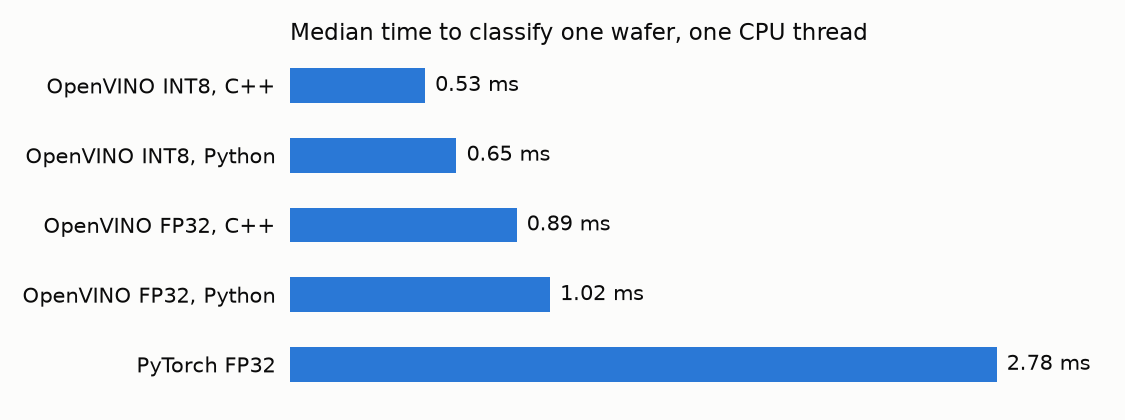
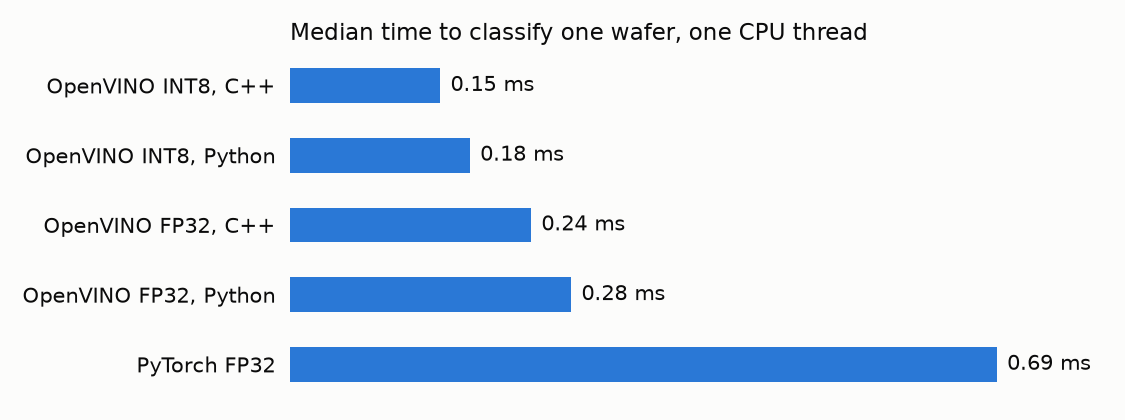
Add CI with Linux C++ build and plugged-in benchmark results

diff --git a/tests/test_demo.py b/tests/test_demo.py
@@ -1,0 +1,66 @@
+"""Tests on the committed INT8 model and sample wafers (no dataset needed).
+
+The C++ test runs only when WAFERWISE_INFER points to a built waferwise_infer binary:
+    WAFERWISE_INFER=cpp/build/waferwise_infer pytest tests/test_demo.py
+On Windows the OpenVINO and OpenCV DLL folders must be on PATH (see cpp/README.md).
+"""
+
+import json
+import os
+import subprocess
+import sys
+
+import pandas as pd
+import pytest
+
+from waferwise.utils import repo_path
+
+sys.path.insert(0, str(repo_path("scripts")))
+from demo import classify  # noqa: E402
+
+MODEL = repo_path("models/wafer_cnn_int8.xml")
+GATE = repo_path("models/gate.json")
+WAFERS = sorted(repo_path("demo/wafers").glob("*.png"))
+CLI = os.environ.get("WAFERWISE_INFER")
+
+
+@pytest.fixture(scope="module")
+def gate() -> dict:
+    with open(GATE, encoding="utf-8") as f:
+        return json.load(f)
+
+
+@pytest.fixture(scope="module")
+def python_rows(gate) -> list[dict]:
+    return classify(MODEL, gate, WAFERS)
+
+
+def test_demo_classifies_every_sample_wafer(gate, python_rows):
+    assert len(python_rows) == len(WAFERS) == 12
+    for row in python_rows:
+        assert row["predicted"] in gate["classes"]
+        assert row["decision"] == ("AUTO" if row["confidence"] >= gate["threshold"] else "REVIEW")
+
+    # Two clear-cut wafers: the model must get them right and decide them alone on any CPU.
+    by_file = {row["file"]: row for row in python_rows}
+    for name, label in (("07_Near-full.png", "Near-full"), ("11_Donut.png", "Donut")):
+        assert by_file[name]["predicted"] == label
+        assert by_file[name]["decision"] == "AUTO"
+
+
+@pytest.mark.skipif(not CLI, reason="set WAFERWISE_INFER to a built waferwise_infer binary")
+def test_cpp_cli_matches_python(python_rows, tmp_path):
+    output = tmp_path / "results.csv"
+    subprocess.run(
+        [str(repo_path(CLI)), "--model", str(MODEL), "--gate", str(GATE),
+         "--input", str(repo_path("demo/wafers")), "--output", str(output)],
+        check=True,
+    )
+    cpp = pd.read_csv(output)
+
+    assert len(cpp) == len(python_rows)
+    for cpp_row, python_row in zip(cpp.itertuples(), python_rows):
+        assert cpp_row.file.replace("\\", "/").endswith(python_row["file"])
+        assert cpp_row.predicted == python_row["predicted"]
+        assert cpp_row.decision == python_row["decision"]
+        assert cpp_row.confidence == pytest.approx(python_row["confidence"], abs=1e-5)

diff --git a/scripts/plot_benchmark.py b/scripts/plot_benchmark.py
@@ -37,7 +37,8 @@ def main() -> None:
     axes.barh(positions, [latency[k] for k in keys], height=0.5, color=BAR)
     axes.set_yticks(positions, [LABELS[k] for k in keys], color=TEXT)
     for position, key in zip(positions, keys):
-        axes.text(latency[key] + 0.04, position, f"{latency[key]:.2f} ms", va="center", color=TEXT)
+        axes.text(latency[key] + 0.015 * max(latency.values()), position, f"{latency[key]:.2f} ms",
+                  va="center", color=TEXT)
     axes.set_title("Median time to classify one wafer, one CPU thread", loc="left", color=TEXT, fontsize=11)
     axes.tick_params(left=False, bottom=False, labelbottom=False)
     axes.spines[:].set_visible(False)

diff --git a/src/waferwise/train.py b/src/waferwise/train.py
@@ -1,5 +1,6 @@
 """Training loop with class-weighted loss and early stopping on validation macro-F1."""
 
+import os
 import time
 from pathlib import Path
 
@@ -22,7 +23,9 @@ log = get_logger(__name__)
 
 
 def get_device() -> torch.device:
-    return torch.device("cuda" if torch.cuda.is_available() else "cpu")
+    """The GPU if PyTorch can use one, else the CPU. Set WAFERWISE_DEVICE=cpu to force the CPU."""
+    name = os.environ.get("WAFERWISE_DEVICE") or ("cuda" if torch.cuda.is_available() else "cpu")
+    return torch.device(name)
 
 
 def random_dihedral(x: torch.Tensor) -> torch.Tensor:

diff --git a/README.md b/README.md
@@ -1,5 +1,7 @@
 # waferwise
 
+[![tests](https://github.com/ritikakarande/waferwise/actions/workflows/tests.yml/badge.svg)](https://github.com/ritikakarande/waferwise/actions/workflows/tests.yml)
+
 Wafer-map defect classification on WM-811K, from noisy, imbalanced data to a model that runs in real time on an Intel CPU.
 
 > The data was dirty and imbalanced. I audited the labels, generated synthetic rare defects, and measured what actually helped: simple oversampling beat the synthetic data. Then I shipped a model that runs in real time on an Intel CPU and flags what it's unsure about.
@@ -15,8 +17,8 @@ Final model on the test set, which was never used for tuning or for choosing bet
 | Macro-F1 | 0.872 (0.87 +/- 0.01 across seeds); about 0.85 on lots never seen in training |
 | Macro recall | 0.897 |
 | Loss from INT8 | 0.0006 macro-F1 |
-| Time per wafer | 0.53 ms median, 0.88 ms p99, one CPU thread in C++ |
-| Speed-up over PyTorch | 5.2x per wafer, 3.8x from PNG to CSV |
+| Time per wafer | 0.15 ms median, 0.20 ms p99, one CPU thread in C++ (0.53 ms on battery) |
+| Speed-up over PyTorch | 4.7x per wafer, 3.7x from PNG to CSV |
 | Model size | 0.10 MB, 4x smaller than FP32 |
 | Confidence gate | reviews 7.4% of wafers, cuts wrong decisions from 683 to 130 and missed defects from 225 to 60 |
 
@@ -34,7 +36,8 @@ Four findings shaped the final model and how far to trust it:
   classes. Simple oversampling kept it at 0.87.
 - **Shared lots flatter the score slightly.** On a split that keeps every lot out of training, macro-F1 is about
   0.01 lower. See [Does it work on new lots?](#does-it-work-on-new-lots).
-- **Speed needed careful measurement.** My first benchmark showed C++ 3x faster than Python, which was false.
+- **Speed needed careful measurement.** My first benchmark showed C++ 3x faster than Python, which was false, and
+  the laptop's power state changes latency by more than any software choice did.
   See [Benchmarks](#benchmarks).
 
 ## Try it
@@ -72,6 +75,17 @@ python -m pip install --upgrade pip
 pip install -r requirements.txt
 pip install -e .
 ```
+
+**Optional GPU.** On Windows, `pip` installs the CPU build of PyTorch. With an NVIDIA GPU you can replace it with a
+CUDA build of the same version:
+
+```bash
+pip install --force-reinstall --no-deps "torch==2.15.0+cu132" "torchvision==0.29.2+cu132" --index-url https://download.pytorch.org/whl/cu132
+```
+
+Training then takes about 30 s per epoch on an RTX 5060 laptop GPU, against about 100 s on the CPU. Every result in
+this README was trained and evaluated on the CPU. Set `WAFERWISE_DEVICE=cpu` to reproduce them exactly: on the GPU
+the final model's predictions change for 4 of the 25,955 validation wafers.
 
 ## Getting the data
 
@@ -370,7 +384,7 @@ python scripts/plot_benchmark.py
 ```
 
 Every version runs the same job: read PNG wafers, run the model, apply the gate and write one CSV row per wafer. Each of
-the 20 setups ran for 20 seconds, 3 times, in a shuffled order.
+the 20 setups ran for 20 seconds, 5 times, in a shuffled order, on a plugged-in laptop.
 
 ![Median time to classify one wafer on one CPU thread](docs/figures/benchmark_latency.png)
 
@@ -378,43 +392,66 @@ One wafer at a time on one thread, with test accuracy for comparison:
 
 | Version | Test macro-F1 | Test macro recall | Weights | Median | p99 | Wafers/s, PNG to CSV |
 |---|---|---|---|---|---|---|
-| PyTorch FP32 | 0.872 | 0.897 | 0.39 MB | 2.78 ms | 5.37 ms | 276 |
-| OpenVINO FP32, Python | 0.872 | 0.897 | 0.39 MB | 1.02 ms | 1.41 ms | 624 |
-| OpenVINO FP32, C++ | 0.872 | 0.897 | 0.39 MB | 0.89 ms | 1.71 ms | 746 |
-| OpenVINO INT8, Python | 0.872 | 0.897 | 0.10 MB | 0.65 ms | 1.21 ms | 825 |
-| **OpenVINO INT8, C++** | 0.872 | 0.897 | 0.10 MB | **0.53 ms** | **0.88 ms** | **1,058** |
+| PyTorch FP32 | 0.872 | 0.897 | 0.39 MB | 0.69 ms | 0.93 ms | 1,136 |
+| OpenVINO FP32, Python | 0.872 | 0.897 | 0.39 MB | 0.28 ms | 0.38 ms | 2,435 |
+| OpenVINO FP32, C++ | 0.872 | 0.897 | 0.39 MB | 0.24 ms | 0.32 ms | 2,932 |
+| OpenVINO INT8, Python | 0.872 | 0.897 | 0.10 MB | 0.18 ms | 0.25 ms | 3,217 |
+| **OpenVINO INT8, C++** | 0.872 | 0.897 | 0.10 MB | **0.15 ms** | **0.20 ms** | **4,204** |
 
 OpenVINO INT8 in C++ at other settings. The default is 8 threads on this CPU:
 
 | Batch | Threads | Median per batch | Wafers/s, model only | Wafers/s, PNG to CSV |
 |---|---|---|---|---|
-| 1 | 1 | 0.53 ms | 1,807 | 1,058 |
-| 1 | default | 0.53 ms | 1,772 | 980 |
-| 256 | 1 | 95.7 ms | 2,639 | 1,549 |
-| 256 | default | 39.0 ms | 6,408 | 2,241 |
+| 1 | 1 | 0.15 ms | 6,821 | 4,204 |
+| 1 | default | 0.10 ms | 9,377 | 4,785 |
+| 256 | 1 | 26.8 ms | 9,456 | 5,490 |
+| 256 | default | 9.1 ms | 29,916 | 9,413 |
 
 What the numbers show:
 
-- **INT8 is the biggest step within OpenVINO.** In C++ it is 1.7x faster than FP32 per wafer and 2x faster at batch 256,
-  for 0.0006 macro-F1.
+- **INT8 is the biggest step within OpenVINO.** On one thread in C++ it is 1.6x faster than FP32 per wafer
+  and 2.1x faster at batch 256, for 0.0006 macro-F1.
 - **C++ does not run the model faster.** Both languages call the same OpenVINO runtime, and at batch 256 on one thread
-  they match: 2,639 and 2,623 wafers/s. C++ saves about 0.12 ms of call overhead per wafer, and from PNG to CSV it
-  handles 22-28% more wafers across the four settings.
-- **More threads do not help single wafers.** The model is too small to split up. PyTorch's default 16 threads make it
-  worse: median 4.0 ms and p99 74 ms, against 2.8 ms and 5.4 ms on one thread.
-- **Reading PNGs is now the bottleneck.** At batch 256 the model handles 6,408 wafers/s but the full job only 2,241,
-  because files are read one at a time. Loading them in parallel is the obvious next step.
+  they match: 9,456 and 9,358 wafers/s. C++ saves about 0.03 ms of call overhead
+  per wafer, and from PNG to CSV it handles 9-35% more wafers across the four settings.
+- **Threads help batches most.** At batch 256 the default 8 threads give 3.2x the single-thread
+  throughput. A single wafer gains much less, because the model is small.
+- **Reading PNGs is now the bottleneck.** At batch 256 the model handles 29,916 wafers/s but the full job only
+  9,413, because files are read one at a time. Loading them in parallel is the obvious next step.
 
-**How far to trust these numbers.** They come from one Intel Core i7-14650HX laptop on battery in its Silent power plan,
-so they describe a power-limited CPU. Plugged in it should be faster, but I have not measured that. With only 3 repeats,
-treat small differences with care. The batch 256 runs on default threads varied most: INT8 C++ ranged from 4,914 to
-6,626 wafers/s.
+**Power state changes the picture.** The same benchmark on battery, in the laptop's Silent power plan:
 
-**The false result.** My first benchmark ran a fixed number of wafers and showed C++ 3x faster than Python. Python also
-jumped between two speeds, 3x apart. A longer run explained it: in this power state the CPU runs fast for about 3 seconds
-under load and then slows down, by up to 3x, and C++ slowed down in the same way. C++ had only looked fast because its short runs ended
-inside that window. Now every run lasts a fixed time, and the first 5 seconds are left out, so all versions are measured
-in the same sustained state.
+| One wafer at a time | Plugged in: median | p99 | On battery: median | p99 |
+|---|---|---|---|---|
+| PyTorch FP32, 1 thread | 0.69 ms | 0.93 ms | 2.78 ms | 5.37 ms |
+| PyTorch FP32, default threads | 0.44 ms | 0.81 ms | 4.01 ms | 73.80 ms |
+| OpenVINO INT8 C++, 1 thread | 0.15 ms | 0.20 ms | 0.53 ms | 0.88 ms |
+| OpenVINO INT8 C++, default threads | 0.10 ms | 0.18 ms | 0.53 ms | 1.08 ms |
+
+The final model is 3.6x slower on battery, and one conclusion flips. On battery, extra threads did not help
+single wafers, and PyTorch's default 16 threads made it worse. Plugged in, extra threads help both. A latency claim means
+little without the power state it was measured in.
+
+**How far to trust these numbers.** They come from one Intel Core i7-14650HX laptop, plugged in, on the Windows
+Performance plan, with 5 repeats per setup. Treat small differences with care. The batch 256 runs on default threads
+varied most: INT8 C++ ranged from 29,511 to 39,252 wafers/s, so its gap to Python's
+34,369 there is noise.
+
+**The false result.** My first benchmark ran a fixed number of wafers, on battery, and showed C++ 3x faster than Python.
+Python also jumped between two speeds, 3x apart. A longer run explained it: on battery the CPU runs fast for about
+3 seconds under load and then slows down, by up to 3x, and C++ slowed down in the same way. C++ had only looked fast
+because its short runs ended inside that window. Now every run lasts a fixed time, and the first 5 seconds are left out,
+so all versions are measured in the same sustained state.
+
+## Tests
+
+```bash
+pytest
+```
+
+Tests that need the dataset skip themselves when it is missing. On every push, GitHub Actions
+(`.github/workflows/tests.yml`) runs the tests and the demo on Linux and Windows. It also builds the C++ CLI on Linux
+and checks that it gives the same labels, confidences and gate decisions as Python on the sample wafers.
 
 ## Repository layout
 
@@ -439,4 +476,5 @@ models/       INT8 model and gate settings, for the demo
 demo/         sample wafers for the demo
 docs/figures/ figures used in this README
 tests/        sanity tests
+.github/workflows/  tests and the Linux C++ build on every push
 ```

diff --git a/cpp/README.md b/cpp/README.md
@@ -26,9 +26,20 @@ cmake -S cpp -B cpp\build -G Ninja -DCMAKE_BUILD_TYPE=Release ^
 cmake --build cpp\build
 ```
 
+## Build (Linux)
+
+```bash
+sudo apt-get install build-essential libopencv-dev
+pip install -r requirements.txt
+cmake -S cpp -B cpp/build -G Ninja -DCMAKE_BUILD_TYPE=Release \
+  -DOpenVINO_DIR="$(python -c 'from openvino.utils import get_cmake_path; print(get_cmake_path())')"
+cmake --build cpp/build
+cpp/build/waferwise_infer --model models/wafer_cnn_int8.xml --gate models/gate.json --input demo/wafers
+```
+
 ## Run
 
-The tool needs the OpenVINO and OpenCV DLLs on `PATH`:
+On Windows the tool needs the OpenVINO and OpenCV DLLs on `PATH`:
 
 ```bat
 set PATH=%CD%\.venv\Lib\site-packages\openvino\libs;%CD%\third_party\opencv\build\x64\vc16\bin;%PATH%
@@ -72,5 +83,6 @@ python scripts/export_wafer_images.py --split val --out outputs/deploy/wafers_va
 python scripts/check_cpp.py --csv outputs/deploy/cpp_val.csv --split val
 ```
 
-Built and tested with MSVC 19.44, OpenVINO 2026.4 and OpenCV 5.0.0. On all 25,955 val wafers, labels and gate decisions
-match Python exactly.
+Built and tested with MSVC 19.44 and OpenCV 5.0.0 on Windows, and with GCC 13.3 and OpenCV 4.6 on Ubuntu 24.04, both
+with OpenVINO 2026.4. On Windows, labels and gate decisions match Python exactly on all 25,955 val wafers. On Linux
+the same check runs on the 12 sample wafers (`tests/test_demo.py`).
